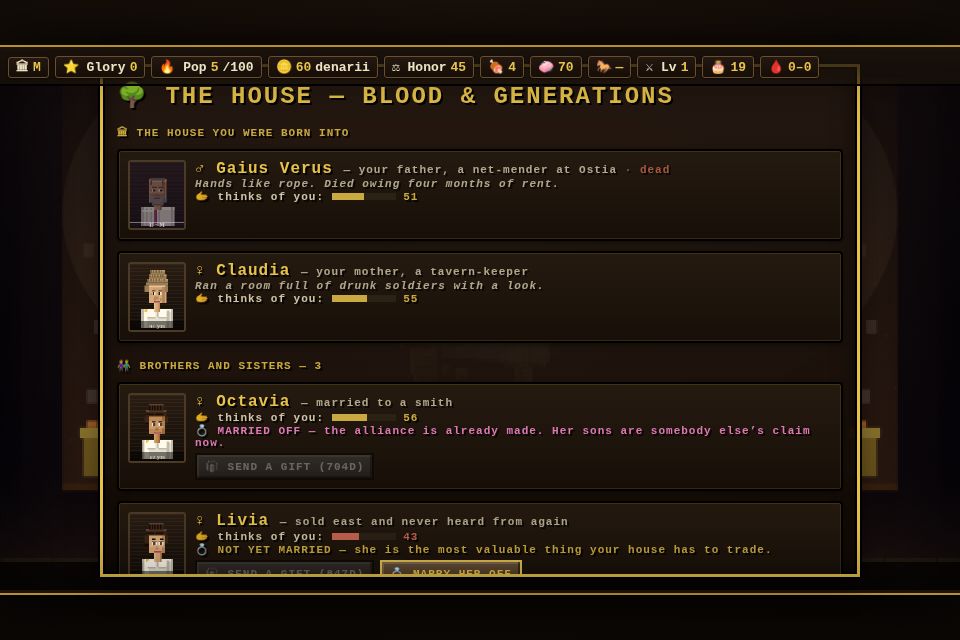
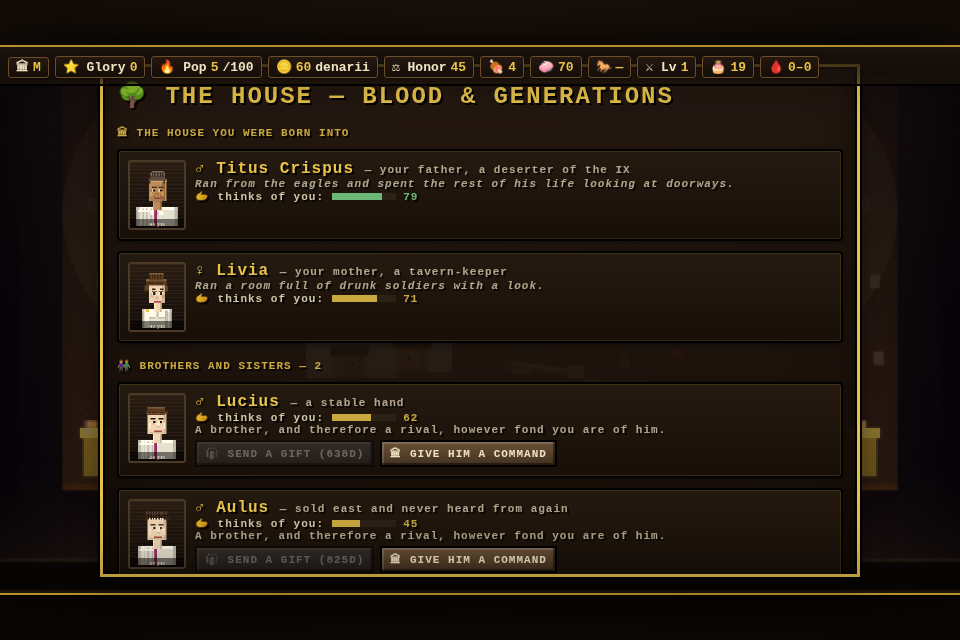
👫 Your children's marriages walk your hall too, and the phases have names
THE FIVE POSES ARE NAMED PHASES now, which is what they always were:
CEREMONIAL ONLY · REGULARLY · NORMALLY · MOSTLY · ALMOST EVERY DAY. The
phase prints under the walk, so you can see which one your house is in.

AND THE KIDS' COUPLES USE THE SAME LADDER. A married pair living under
your roof no longer teleport into whichever room they are occupying —
they walk there, past you, in whichever hold THEIR marriage earned,
graded off the forecast the augurs read at their wedding rather than off
your record. Pulled the tier logic out into escortPoseFor(ard, kids) so
there is exactly one ladder and the two can never disagree; coupleLooks()
sorts out which half of the pair is doing the carrying. It is ambient —
it never locks your controls and never interrupts anything, verified by
running updateDomus straight through a walk.

Two collisions found while shooting the screenshots:

- the WHERE menu occupies the bottom strip of the screen, which is
  exactly where every door prints the names of whoever is behind it, so
  the threshold labels ran straight through the cards ("THE BATH" with
  "...ntus" ghosting across it). The labels stand down while the menu is
  open; the plate on the door face is well clear and stays.

- a blocked reason like "Not in front of the children. Clear the hall
  first." is fifty characters in a card a fifth that wide and bled across
  its neighbours. Card text is trimmed to the card now, the occupied
[…]

diff --git a/index.html b/index.html
@@ -12120,6 +12120,8 @@ function updateDomus(dt){
   if(D.rise){ updateRise(dt); if(D.rise && D.rise.locks) return; }
   else if(riseDue()) startRise();
   if(D.escort){ updateEscort(dt); if(D.escort && D.escort.locks) return; }
+  if(D.kidWalk) updateKidWalk(dt);                    // ambient — never locks you
+  else if(kidWalkDue()) startKidWalk();
   if(D.gripe) updateRoomComplaint(dt);
   if(D.ardor){ updateArdor(dt); if(D.ardor && D.ardor.locks) return; }
   if(D.husb){ updateHusbandMove(dt); return; }        // he is already crossing; nothing interrupts that
@@ -13119,11 +13121,19 @@ function ardorSpots(){
   // one privacy can shut. A door is exactly what the other three are FOR.
   const blocked = privacyNeeded('romantic')? privacyRefusal('romantic') : null;
   const occ=roomsOccupiedToday();
-  const taken=(r)=>occ[r]? ('taken — '+occ[r].name+' & '+occ[r].spouse) : null;
+  /* SHORT on the card, LONG in the toast. "taken — Livia & Marcus" is wider
+     than a 108px card at this text scale and bled straight across into the
+     next option; the card gets the child's name only and the toast still
+     names the pair. */
+  const taken=(r)=>occ[r]? ('taken — '+occ[r].name) : null;
+  const takenLong=(r)=>occ[r]? (occ[r].name+' and '+occ[r].spouse+' are in there') : null;
   out.push({id:'here', name:'BEND HERE',  icon:'🏛', note:'Where you are standing.',  block:blocked});
-  out.push({id:'bed',  name:'BED CHAMBER',icon:'🛏', note:'A door, and it shuts.',    block:taken('bed'), occ:!!occ.bed});
-  if(G.hasPool)     out.push({id:'pool',    name:'THE BATH',    icon:'🛁', note:'Warm, and empty at this hour.', block:taken('pool'), occ:!!occ.pool});
-  if(G.hasWardrobe) out.push({id:'wardrobe',name:'THE WARDROBE',icon:'🚪', note:'Undignified. Quick. Hers.',     block:taken('wardrobe'), occ:!!occ.wardrobe});
+  out.push({id:'bed',  name:'BED CHAMBER',icon:'🛏', note:'A door, and it shuts.',
+    block:taken('bed'), blockLong:takenLong('bed'), occ:!!occ.bed});
+  if(G.hasPool)     out.push({id:'pool',    name:'THE BATH',    icon:'🛁', note:'Warm, and empty at this hour.',
+    block:taken('pool'), blockLong:takenLong('pool'), occ:!!occ.pool});
+  if(G.hasWardrobe) out.push({id:'wardrobe',name:'THE WARDROBE',icon:'🚪', note:'Undignified. Quick. Hers.',
+    block:taken('wardrobe'), blockLong:takenLong('wardrobe'), occ:!!occ.wardrobe});
   out.forEach(sp=>sp.fav=(sp.id===fav));
   return out;
 }
@@ -13172,7 +13182,7 @@ function updateArdor(dt){
     if(consume('d')){ X.sel=(X.sel+1)%S.length;          try{ sfx('ui'); }catch(e){} }
     if(consume('space')||consume('attack')){
       const sp=S[X.sel];
-      if(sp.block){ toast(sp.occ? ('🚪 '+sp.block+'. Pick another door.') : sp.block, 3200);
+      if(sp.block){ toast(sp.occ? ('🚪 '+(sp.blockLong||sp.block)+'. Pick another door.') : sp.block, 3200);
         try{ sfx('deny'); }catch(e){} }
       else { X.chose=sp; X.ph='go'; X.t=0; }
     }
@@ -13257,7 +13267,13 @@ function drawArdor(){
       if(sp.fav && !dead){ px(cx+cw-9,cy+3,6,6,'#ff7ab0'); px(cx+cw-8,cy+4,4,1,'#ffd0e4'); }
       pixelText(sp.icon+' '+sp.name, cx+cw/2, cy+11,
         dead? 'rgba(190,120,116,.85)' : on? '#ffce7a' : 'rgba(232,227,194,.85)', 0.9);
-      pixelText(dead? sp.block : sp.note, cx+cw/2, cy+26,
+      /* AND IT HAS TO FIT. A blocked reason like "Not in front of the children.
+         Clear the hall first." is fifty characters in a card a fifth that wide,
+         so it ran across its neighbours. Trimmed to the card; the toast on a
+         failed pick still carries the whole sentence. */
+      const fit=(t)=>{ const max=Math.max(6, Math.floor(cw/5.4));
+        t=String(t||''); return t.length>max? t.slice(0,max-1)+'…' : t; };
+      pixelText(fit(dead? sp.block : sp.note), cx+cw/2, cy+26,
         dead? 'rgba(224,112,104,.95)' : 'rgba(200,190,170,.7)', 0.8);
       /* CROSSED OUT, IN RED. A greyed label is easy to miss at this size —
          a room you cannot have gets a line straight through it and a cross
@@ -14637,7 +14653,7 @@ function drawDomus(){
         px(60,py-9,42,9,'#2a1c10'); px(60,py-9,42,1,'#5a4028');
         ctx.textAlign='center';
         pixelText('♥ IN USE', 81, py-4, 'rgba(160,216,255,'+(0.75+0.25*Math.sin(T*0.12)).toFixed(2)+')', 0.7);
-        pixelText(po.name+' & '+po.spouse, 81, py-16, 'rgba(232,195,74,.85)', 0.68);
+        if(!placeMenuUp()) pixelText(po.name+' & '+po.spouse, 81, py-16, 'rgba(232,195,74,.85)', 0.68);
         ctx.textAlign='left';
       } }
     /* one laurel only, at the far end — the other stood exactly where the
@@ -14679,7 +14695,7 @@ function drawDomus(){
       px(wx+3,150,28,9,'#2a1c10'); px(wx+3,150,28,1,'#5a4028');
       ctx.textAlign='center';
       pixelText('♥ OCCUPIED', wx+17, 155, 'rgba(255,170,205,'+(0.75+0.25*Math.sin(T*0.12)).toFixed(2)+')', 0.68);
-      pixelText(wo.name+' & '+wo.spouse, wx+17, FY+8, 'rgba(232,195,74,.85)', 0.66);
+      if(!placeMenuUp()) pixelText(wo.name+' & '+wo.spouse, wx+17, FY+8, 'rgba(232,195,74,.85)', 0.66);
       ctx.textAlign='left';
     }
   }
@@ -14793,6 +14809,7 @@ function drawDomus(){
     if(D.husb) drawHusbandMove();                       // he crossed the room without being asked
     if(D.drop) drawDrop();                              // the floor, her, and him crossing to it
     if(D.ardor) drawArdor();                            // 🏛 and it is your own fault this time
+    if(D.kidWalk) drawKidWalk();                        // and so is somebody else's husband
     if(D.escort) drawEscort();                          // he is taking her somewhere
     if(D.gripe) drawRoomComplaint();                    // and somebody small has a grievance
     if(!D.rslap && !D.husb && !D.ardor && !D.escort && !(D.rise && D.rise.ph!=='build')
@@ -18044,25 +18061,53 @@ function myBedTitle(){
    complaining about.
    ===================================================================== */
 const ESCORT_POSES=[
-  {id:'stiff',    tier:0, lab:'…', speed:0.62,
+  {id:'stiff',    tier:0, lab:'…', speed:0.62, phase:'CEREMONIAL ONLY',
    note:'He walks a pace ahead. Neither of them says anything.'},
-  {id:'hand',     tier:1, lab:'♥', speed:0.80,
+  {id:'hand',     tier:1, lab:'♥', speed:0.80, phase:'REGULARLY',
    note:'He takes her hand at the door, the way he was taught to.'},
-  {id:'lead',     tier:2, lab:'♥', speed:1.05,
+  {id:'lead',     tier:2, lab:'♥', speed:1.05, phase:'NORMALLY',
    note:'She is walking; he is walking rather faster.'},
-  {id:'shoulder', tier:3, lab:'♥♥', speed:1.35,
+  {id:'shoulder', tier:3, lab:'♥♥', speed:1.35, phase:'MOSTLY',
    note:'He has simply picked her up. She has stopped objecting to this.'},
-  {id:'bridal',   tier:4, lab:'♥♥♥', speed:1.70,
+  {id:'bridal',   tier:4, lab:'♥♥♥', speed:1.70, phase:'ALMOST EVERY DAY',
    note:'He is running. She is laughing. The household has seen this before.'},
 ];
-// which pose this house has earned
-function escortPose(){
-  const t=myBedTitle();
-  const ai=ARD_TITLES.indexOf(t.ard), ki=KID_TITLES.indexOf(t.kids);
-  const aN=ai/(ARD_TITLES.length-1), kN=ki/(KID_TITLES.length-1);
+/* ONE ladder, so a married child's couple is graded on exactly the same
+   scale as your own house — theirs from the forecast the augurs read at
+   the wedding, yours from what has actually happened since. */
+function escortPoseFor(ard, kids){
+  const a=pickTitle(ARD_TITLES, ard||0), k=pickTitle(KID_TITLES, kids||0);
+  const aN=ARD_TITLES.indexOf(a)/(ARD_TITLES.length-1);
+  const kN=KID_TITLES.indexOf(k)/(KID_TITLES.length-1);
   const heat=Math.max(aN,kN);                       // the louder of the two facts
   const i=clamp(Math.floor(heat*ESCORT_POSES.length), 0, ESCORT_POSES.length-1);
   return ESCORT_POSES[i];
+}
+// which pose YOUR house has earned
+function escortPose(){
+  const t=myBedTitle();
+  const days=Math.max(1,(G.day||0)-(G.marriedDay===undefined?0:G.marriedDay));
+  return escortPoseFor((G.woohooAll||0)/Math.max(1,days/3),
+                       (G.children||[]).filter(c=>!c.dead).length);
+}
+/* both halves of a married child's couple, described the way the sprites
+   want to be told, and sorted into who is carrying whom */
+function coupleLooks(ch){
+  const kid=grownLook(ch), sp=ch.spouse||{};
+  const noble=(G.socialClass==='imperial'||G.royal||G.socialClass==='elite'||G.senate);
+  const spLook={
+    self:false, male:!!sp.male, name:sp.name, eth:'roman', age:sp.age||28,
+    skin: sp.skin || '#caa06a',
+    dress: sp.male? shade(G.tunic||'#7a2f22',-10) : shade(sp.dress||'#8a2f5a',-8),
+    hair: sp.hair || (sp.male? '#3a2618' : '#5a3a1e'),
+    hairStyle: sp.male? 'caesar' : 'crown',
+    beard: sp.male? 'stubble' : 'none',
+    outfit:'tunic', jewel:(!sp.male && noble), crown:false, scars:[],
+    rank: noble?'noble':'peasant', tier: noble?'elite':'common',
+    looks: sp.looks===undefined? 5 : sp.looks,
+    body: sp.body || {face:5,hairq:5,bust:5,waist:5,booty:5,legs:5,secret:5},
+  };
+  return { him: kid.male? kid : spLook, her: kid.male? spLook : kid };
 }
 /* HER, CARRIED — purpose-built, because a rotated standing figure does not
    work. drawWifeFig's silhouette is dominated by the flare of the gown; turn
@@ -18263,6 +18308,7 @@ function drawEscort(){
   ctx.textAlign='center';
   if(E.ph==='walk'){
     pixelText(E.pose.note, W/2, 28, 'rgba(255,214,190,.9)', 1.0);
+    pixelText(E.pose.phase, W/2, 42, 'rgba(255,150,190,.85)', 0.80);
     pixelText(E.pose.lab, E.x, FY-84, '#ff9ad8', 1.1);
   } else if(E.ph==='barred'){
     // the door, shut, with somebody behind it
@@ -18274,6 +18320,66 @@ function drawEscort(){
   } else {
     pixelText('♥', E.x, FY-84, '#ff9ad8', 1.3);
   }
+  ctx.textAlign='left';
+}
+/* ---------------------------------------------------------------------
+   YOUR CHILDREN'S OWN MARRIAGES, crossing your hall
+   ---------------------------------------------------------------------
+   A married pair living under your roof do not teleport into the room
+   they are occupying — they walk there, past you, in whichever hold
+   THEIR marriage has earned. Same five poses, graded on the forecast the
+   augurs read at their wedding rather than on your record.
+
+   Ambient: it never locks your controls and never interrupts anything.
+   --------------------------------------------------------------------- */
+function kidCoupleForecast(ch){
+  if(ch.forecast) return ch.forecast;
+  try{ return suitorForecast(ch.spouse||{}, ch); }catch(e){ return {ard:2, kids:2}; }
+}
+function kidWalkDue(){
+  const D=DM; if(!D) return false;
+  if(D.kidWalk || D.escort || D.scene || D.slap || D.rslap || D.tempt
+     || D.husb || D.drop || D.rise || D.ardor) return false;
+  const rooms=roomsOccupiedToday();
+  if(!Object.keys(rooms).length) return false;
+  if((D.t||0) - (D.lastKidWalkT===undefined? -9999 : D.lastKidWalkT) < 1500) return false;
+  return Math.random() < 0.0026;
+}
+function startKidWalk(){
+  const D=DM; if(!D) return false;
+  const rooms=roomsOccupiedToday(), keys=Object.keys(rooms);
+  if(!keys.length) return false;
+  const room=pick(keys), occ=rooms[room], ch=occ.ref;
+  if(!ch || !ch.spouse) return false;
+  const f=kidCoupleForecast(ch);
+  const tx=(ROOM_DOOR_X[room]===undefined? 414 : ROOM_DOOR_X[room]);
+  const from=(tx>240)? 40+Math.random()*60 : 400+Math.random()*50;
+  D.lastKidWalkT=D.t;
+  D.kidWalk={ t:0, room, ch, occ, pose:escortPoseFor(f.ard, f.kids),
+              looks:coupleLooks(ch), x:from, tx, startX:from };
+  return true;
+}
+function updateKidWalk(dt){
+  const D=DM, K=D.kidWalk; if(!K) return;
+  K.t+=dt;
+  const sp=0.95*(K.pose.speed||1)*dt;
+  const d=K.tx-K.x;
+  K.x += Math.sign(d)*Math.min(Math.abs(d), sp);
+  if(Math.abs(K.tx-K.x)<2 || K.t>1400){
+    D.kidWalk=null;
+    try{ sfx('door'); }catch(e){}
+  }
+}
+function drawKidWalk(){
+  const D=DM, K=D.kidWalk; if(!K) return; const FY=214;
+  const dir=(K.tx>=K.startX)? 1 : -1;
+  // a shade behind the player's own business, so it never competes with it
+  ctx.globalAlpha=0.90;
+  drawEscortPair(K.x, FY, D.t, K.pose, dir, K.looks.him, K.looks.her);
+  ctx.globalAlpha=1;
+  ctx.textAlign='center';
+  pixelText(kidName(K.ch)+' & '+K.occ.spouse, K.x, FY-92, 'rgba(232,195,74,.78)', 0.70);
+  pixelText(K.pose.phase, K.x, FY-84, 'rgba(255,150,190,.72)', 0.62);
   ctx.textAlign='left';
 }
 /* ---------------------------------------------------------------------
@@ -18396,6 +18502,13 @@ function roomOccupant(room){ return roomsOccupiedToday()[room] || null; }
 /* THE DOOR ITSELF — one routine, so every door in the house is the same
    piece of joinery: architrave, two leaves, sunk panels, ring handles,
    hinges and a threshold. `busy` gives it the whole occupied performance. */
+/* the WHERE menu occupies the bottom strip of the screen, exactly where the
+   doors print the names of whoever is behind them — so with the menu up the
+   threshold labels ran straight through the cards. They stand down while it
+   is open; the ♥ OCCUPIED plate on the door face itself is well clear. */
+function placeMenuUp(){
+  return !!(DM && DM.ardor && (DM.ardor.ph==='ask' || DM.ardor.ph==='go'));
+}
 function drawDoor(x, y, w, h, T, o){
   o=o||{};
   const wood   = o.wood   || '#c07830';
@@ -18472,7 +18585,8 @@ function drawDoor(x, y, w, h, T, o){
     ctx.textAlign='center';
     pixelText('♥ OCCUPIED', x+w/2, py+1,
       'rgba(255,170,205,'+(0.75+0.25*Math.sin(T*0.12)).toFixed(2)+')', 0.72);
-    if(busy.name) pixelText(busy.name+' & '+busy.spouse, x+w/2, y+h+9, 'rgba(232,195,74,.85)', 0.68);
+    if(busy.name && !placeMenuUp())
+      pixelText(busy.name+' & '+busy.spouse, x+w/2, y+h+9, 'rgba(232,195,74,.85)', 0.68);
     ctx.textAlign='left';
   }
 }
@@ -21673,7 +21787,9 @@ window.__SS = {
   roomsOccupiedToday, roomOccupant, drawDoor, HOUSE_ROOMS, tryWardrobe, tryPoolInvite, openTree,
   ARD_TITLES, KID_TITLES, bedTitle, myBedTitle, pickTitle,
   sfx, blip, hiss, audioBus, revSend,
-  ESCORT_POSES, escortPose, drawEscortPair, startEscort, updateEscort, drawEscort, drawCarriedFem,
+  ESCORT_POSES, escortPose, escortPoseFor, coupleLooks, drawEscortPair,
+  startEscort, updateEscort, drawEscort, drawCarriedFem,
+  kidWalkDue, startKidWalk, updateKidWalk, drawKidWalk, kidCoupleForecast,
   ROOM_COMPLAINTS, maybeRoomComplaint, updateRoomComplaint, drawRoomComplaint, ROOM_DOOR_X,
   makeCheatSuitor, summonCheatSuitor,
   openSuitorHall, openWeddingChoice, buildSuitorCard, buildKidHousesCard, SUITOR_STYLE,
